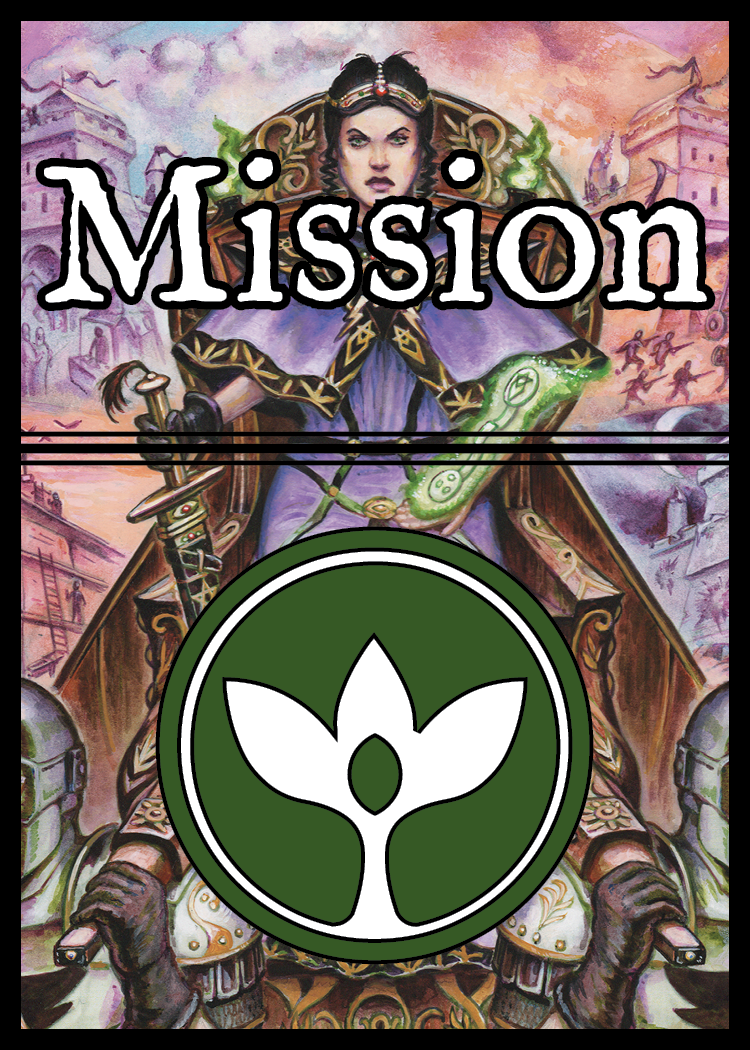
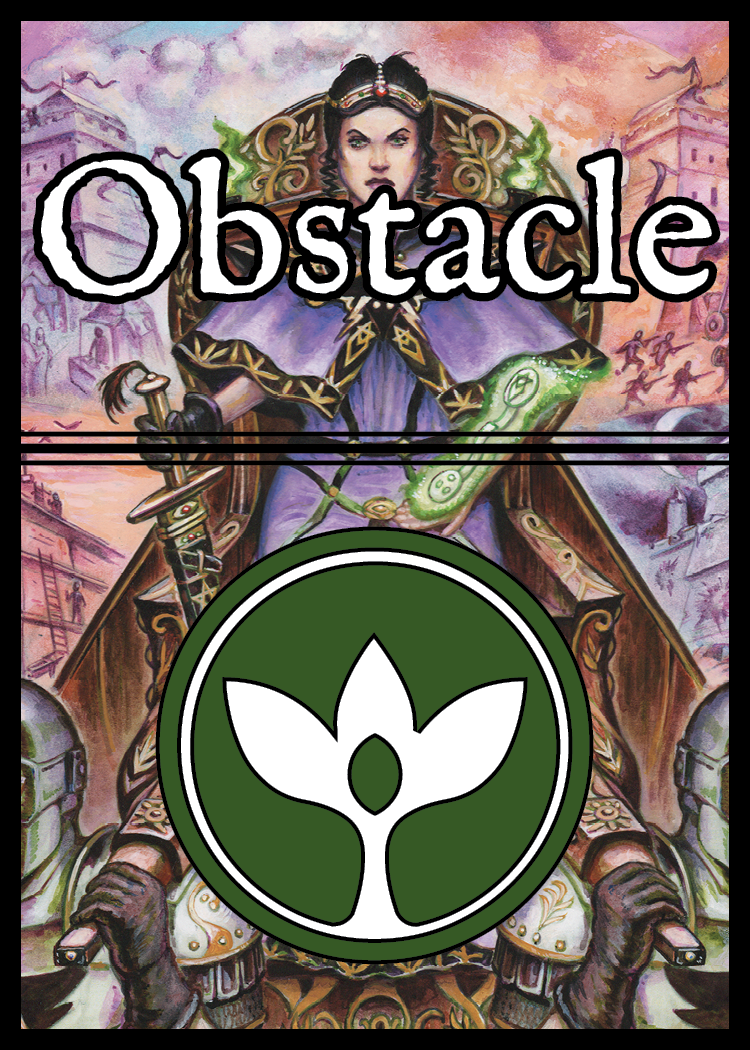
adding in details to appendix

diff --git a/docs/RULES.md b/docs/RULES.md
@@ -2,47 +2,51 @@
 
 *Six Winters* is a cooperative fantasy campaign game for 1-4 players based on the *Wrath of the Autarch* tabletop role-playing game.
 
-Players control **Red Bank**, a diasporic society under threat from the **Empire of the Autarch**. The Autarch is working to achieve a sorcerous apotheosis, rendering The Empire unstoppable and spelling certain doom for Red Bank. The players have six winters to stop this from happening. Each game of Six Winters is 2 to 3 hours long and plays out one year in the life of Red Bank.
+Players control **Red Bank**, a diasporic society under threat from the **Empire of the Autarch**. The Autarch is working to achieve a sorcerous apotheosis, rendering The Empire unstoppable and spelling certain doom for Red Bank. The players have six winters to stop this from happening. Each game of *Six Winters* is 2 to 3 hours long and plays out one year in the life of Red Bank.
 
 During a session of the game, players select from a rotating cast of characters to make progress against the Empire. Each character has their own unique capabilities and limitations. Effectively managing these characters over the six winters is critical to successfully stopping the Empire!
 
-`As this document is very much in progress, designer thoughts and notes are captured using this highlighted formatting. They help provide context and insights, but are not essential to understanding the game. For now, I'm capturing rules in markdown, which is not a very rich textual format, but is quick to edit, and ideal for the state the game is in. The number of helpful images and diagrams is going be minimal, because they are difficult and time consuming to create for a game that is in such a fluid state. In other words: it isn't going to be easy to understand the game from the given rules doc, but hopefully it's at least possible. More than anything, I'm interested in capturing a specific version of the rules to help weight playtesting decisions. The version number matches that used in Tabletop Simulator. Along with that, all of the graphic design and layout is only for prototype purposes and will certainly change at production time.`
+`As this document is very much in progress, designer thoughts and notes are captured using this highlighted formatting. They help provide context and insights, but are not essential to understanding the game. For now, I'm capturing rules in markdown, which is not a very rich textual format, but is quick to edit, and ideal for the state the game is in. The number of helpful images and diagrams is going be minimal, because they are difficult and time consuming to create for a game that is in such a fluid state. In other words: it isn't going to be easy to understand the game from this rules doc, but hopefully it's at least possible. More than anything, I'm interested in capturing a specific version of the rules to help with playtesting decisions. The version number matches that used in Tabletop Simulator. Along with those caveats, all of the graphic design and layout is only for prototype purposes and will certainly change at production time.`
 
 ## Resources
 
-The conflict with the Empire is over six **resources**:
+The conflict with the Empire is over six **resources**.
 
 | Support | Technology | Espionage | Military | Diplomacy | Sorcery |
 | :---: | :---: | :---: | :---: | :---: | :---: |
 | <img src="rules_images/capitol.png" width="100" height="100" /> | <img src="rules_images/spyglass.png" width="100" height="100" /> | <img src="rules_images/cowled.png" width="100" height="100" /> | <img src="rules_images/catapult.png" width="100" height="100" /> | <img src="rules_images/stone-throne.png" width="100" height="100" /> | <img src="rules_images/magic-swirl.png" width="100" height="100" /> |
  
+`These resources are fairly abstract, compared to something like ore or timber. Not totally sure if resources is the right word here, but it's the best I've come up with so far.`
+
 ## Progress
 
-Red Bank's **progress** in those areas is marked using a red cube on each associated twelve space [**resource track**](#progress-and-threat-tracks) on the [**trade board**](#trade-board).
+Red Bank's **progress** in each resource is marked using a red cube on an associated twelve space [**resource track**](#progress-and-threat-tracks) on the [**trade board**](#trade-board).
 
 ## Threats
 
-**Threats** against Red Bank in each resource area are tracked using a gray cube on each resource track. There are ways to slow the escalation of threats and even lower threats during play.
+**Threats** against Red Bank in each resource are tracked using a gray cube on each resource track. There are ways to slow the escalation of threats and even lower threat tracks during play.
 
 `Lowering threat levels after they have advanced is much more difficult than trying to slow the rate of advancement in the first place. Completely stopping threats requires some luck.`
 
 ## Victory
 
-If the Red Bank progress marker is _alone_ on the last space of a resource track (the 12th space), that resource track is **complete**. After the sixth game, check for victory as follows:
+If a Red Bank progress marker is _alone_ on the last space of the resource track (the 12th space), that resource track is **complete**. After the sixth game, check for victory as follows:
 
 * **Pyrrhic Victory**: Red Bank has completed one of Diplomacy, Support, or Espionage.
 * **Major Victory**: Red Bank has completed any two of Diplomacy, Support, or Espionage.
 * **Total Victory**: Red Bank has completed all of Diplomacy, Support, and Espionage.
 
-Additionally, the players get bonus points for every resource track where the progress marker is higher than the threat marker.
-
 Any other state of the game after six sessions results in defeat for Red Bank.
+
+Additionally, a score is calculated at the end, with players getting points for every resource track where the progress marker is higher than the threat marker.
+
+`There are thematic reasons that Military, Technology, and Sorcery tracks don't translate to victory. It is impossible to keep pace with the Empire on the Military and Technology fronts. Sorcery is too chaotic to form a strategy around, but it's a very useful resource for some characters, and it's possible to craft and transmute sorcery into other resources. All of the resources have value and mechanical impact during the game.`
 
 # Components
 
 ## Resource Dice
 
-Each resource has a [**pool**](#resource-pools) of resource dice. At the end of each turn, players refill these pools to a number of dice equal to the value shown on the progress marker (1-6 dice).
+Red Bank's raw capability in a resource is represented by a [**pool**](#resource-pools) of resource dice. This pool of resource dice fluctates in size and value over the course of a game, as capabilities are used for different effects. At the end of each turn, players [**refresh**](#refresh) these pools with a number of dice equal to the value shown on the progress marker. This is normally 1 to 6 dice, depending on the resource.
 
 Resource dice are colored as follows:
 
@@ -53,27 +57,25 @@ Resource dice are colored as follows:
 * **Diplomacy**: Lavender
 * **Sorcery**: Blue
 
-`The dice in resource pools represent the raw capability of Red Bank in that area.`
-
 ## Assets
 
-Resource dice are not very useful in resource pools, so players will frequently move them on to [**location cards**](#location-cards) first. Resource dice placed on location cards are referred to as **assets**. Assets are freely available for characters at that location to use, most commonly to complete mission [**progress cards**](#progress-cards), although they can also be used to [**overcome obstacles**](#overcome) or fuel character [**abilities**](#abilities).
+Resource pools are not as useful as **assets**: specific creations of each resource type. These are flexible concepts in the narrative. For instance, an espionage asset could represent anything from a helpful spy or contact to thieves tools or gear.
 
-`If resource pools are raw capabilities, assets are specific uses and creations. Their form in the narrative is flexible. An espionage asset could represent anything from a helpful spy or contact to thieves tools or gear.`
+Assets are created by moving dice from resource pools onto [**location cards**](#location-cards) with the [**create asset**](#create-asset) action. Other game effects may create assets directly. Characters at the location with assets may use them to complete mission [**progress cards**](#progress-cards), as well as help [**overcome obstacles**](#overcome) or fuel character [**abilities**](#abilities).
 
 ## Action Dice
 
-Each player has a pool of red action dice available each turn. These dice are spent to perform actions in the game. For some actions, the value on the action dice doesn't matter (such as moving from one location to another), but for most actions the value is important.
+Each player has a pool of red action dice available each turn. These dice are spent to perform actions in the game. For some actions like movement, the value on the action dice doesn't matter, but for most actions the values are important.
 
-`Think of these like the action points in a game like Oath. Although the action points have values which can impact the abilitiy to take certain actions.`
+`Think of these like the action points. Although the action points have values which can impact the abilitiy to take certain actions.`
 
 ## Character Tokens
 
-There are tokens (miniatures in *Tabletop Simulator*) for each character in the campaign. These are moved around the nine different **location cards** during play.
+There are tokens, or miniatures in *Tabletop Simulator*, for each character in the campaign. These are moved around the nine different **location cards** during play.
 
 ## Location Cards
 
-There are nine different location cards in play during a game, three in each of the following regions:
+Characters move around nine different locations, represented by a grid of cards. There are three locations in each of the following regions:
 
 | The Empire | Red Bank | The Settled Lands |
 | :---: | :---: | :---: |
@@ -110,11 +112,11 @@ The upper right of each location card shows the character [**skill**](#skills) u
 
 ### Movement Costs
 
-Along the bottom of each card are [**movement**](#move) costs for each region. A player spends the listed number of action dice, the value of the dice do not matter, to move their character to any location in that region.
+Along the bottom of each card are [**movement**](#move) costs for each region. A player spends the listed number of action dice to move their character to any location in that region. The value of the action dice don't matter for movement.
 
 ### Location Effect Icon (Optional)
 
-The upper left of each location card may contain optional icons indicating various effects.
+The upper left of each location card contain optional icons indicating various effects.
 
 | Port | Magic Gate | Support Source | Technology Source | Espionage Source | Military Source | Diplomacy Source | Sorcery Source |
 | :---: | :---: | :---: | :---: | :---: | :---: | :---: | :---: |
@@ -182,7 +184,7 @@ Progress cards are separated and grouped by stage. All the stage one cards are s
 
 ## Obstacle Cards
 
-There is one deck of obstacle cards for each region (*Empire*, *Red Bank*, and the *Settled Lands*). Over the course of the campaign, obstacle cards may move between decks, and decks may grow or shrink based on campaign events. Obstacle cards come into play during the [**new obstacles**](#new-obstacles) and [**obstacle surge**](#obstacle-surge) phases, causing effects which are usually negative for the characters and *Red Bank*.
+Obstacle cards represent adversaries, challenges, but also opportunities for Red Bank. There is one deck of obstacle cards for each region: *The Empire*, *Red Bank*, and the *Settled Lands*. Over the course of the campaign, obstacle cards may move between decks, and decks may grow or shrink based on campaign events. Obstacle cards come into play during the [**new obstacles**](#new-obstacles) and [**obstacle surge**](#obstacle-surge) phases, causing effects which are usually negative for the characters and *Red Bank*.
 
 <img src="rules_images/sample_obstacle.png" width="432" height="605"/> <img src="rules_images/sample_obstacle_back.png" width="432" height="605"/>
 
@@ -286,9 +288,9 @@ Both progress and threats are tracked on the resource tracks. Red cubes are used
 
 On each resource pool are numbered **resource action slots** from 0 to 6. These are used by characters to retrieve resource dice from each pool using the [**create asset**](#create-asset) action as well as to trade resources using the [**trade**](#trade) action.
 
-### Resource Bonus
+### Resource Mastery Bonus
 
-When Red Bank's progress track for a resource is at or beyond the '+' symbol on the resource track, players gain the mechanical benefit for described in the resource box. These are further clarified in the [**resource bonuses**](#resource-bonuses) section.
+When Red Bank's progress track for a resource is at or beyond the **+** symbol on the resource track, Red Bank has mastery in that resource, and players gain the mechanical benefit described in the resource box. These bonuses are further clarified in the [**resource bonuses**](#resource-bonuses) section.
 
 ### Wheel of Seasons
 
@@ -426,12 +428,12 @@ The red cubes are used to track *Red Bank's* progress on each resource track. At
 
 The first step is to determine the difficulty of the campaign. Initial threat levels are based on difficulty. Place gray cubes at the appropriate position of each resource track:
 
-* **Cakewalk**: First space, on same space as red progress cubes
+* **Cakewalk**: First space, on same space as red threat progress cubes
 * **Standard**: Third space
 * **Difficult**: Sixth space
-* **Impossible**: Ninth space, only three away from the last space of the track, when particularly bad effects kick in
+* **Tragedy Incarnate**: Ninth space, only three away from the last space of the track, when particularly bad effects kick in
 
-At the standard and cakewalk difficulties, there's a very high chance of at least a pyrrhic victory. The game at those levels is more about what happens to characters along the way and the degree of success. At the difficult and impossible levels, there's a chance the players will not succeed at all.
+At the standard and cakewalk difficulties, there's a very high chance of at least a pyrrhic victory. The game at those levels is more about what happens to characters along the way and the degree of success. At the difficult and tragedy levels, there's a chance the players will not succeed at all.
 
 ## Choose Starting Locations
 
@@ -728,7 +730,7 @@ Finally, multiply the total points by the difficulty to find your score:
 * **Cakewalk**: x1
 * **Standard**: x2
 * **Difficult**: x3
-* **Impossible**: x4
+* **Tragedy Incarnate**: x4
 
 | Score | Result |
 | :-- | :-- |
@@ -748,35 +750,61 @@ Finally, multiply the total points by the difficulty to find your score:
 
 TBD
 
-# Resource Bonuses
-
-TBD
+# Resource Mastery Bonuses
 
 ## Support
 
-TBD
+May create assets from or trade using *all* the resource dice matching the value of the action die used. This makes sets of the same value in resource pools particularly easy to move around.
 
 ## Technology
 
-TBD
+All players get one additional action die at the start of each turn.
 
 ## Espionage
 
-TBD
+Whenever an espionage asset of value 2 is created, roll an additional espionage asset. Continue creating additional espionage assets until a number other than 2 is rolled.
 
 ## Military
 
-TBD
+May move any assets *from* a military location to any other location.
 
 ## Diplomacy
 
-TBD
+May trade 2 resource dice for any 1 resource die along the wheel of [**trade**](#trade). That is, 2 technology resource dice may be spent to roll a new espionage resource die, 2 espionage resource dice for a military resource die, 2 sorcery resource dice for any other resource die, etc. This may be done by any player freely at any time.
 
 ## Sorcery
 
-TBD
+Sorcery assets may be treated as any resource type or die value when playing onto progress cards. Note that the sorcery asset die value may not be changed, but rather the resource type and value restrictions are ignored.
 
 # Character Appendix
+
+## Fuscus
+
+TBD
+
+## Keel
+
+<img src="rules_images/square.png" width="75" height="75" /> <img src="rules_images/arrow-right.png" width="75" height="75" /> <img src="rules_images/square.png" width="75" height="75" /> <img src="rules_images/plus.png" width="75" height="75" /> <img src="rules_images/square.png" width="75" height="75" />
+
+Choose a die and split it into two. The two dice must sum to the chosen die.
+
+## Lucia
+
+TBD
+
+## Menas
+
+TBD
+
+## Oniri
+
+TBD
+
+## Thea
+
+TBD
+
+## Yasmina
 
 TBD
 

diff --git a/docs/BRAINSTORMING.md b/docs/BRAINSTORMING.md
@@ -3,14 +3,27 @@
 * Add location or obstacle effects for burning or discarding obstacles
 * Combos on left side of character cards
    * 3 3 3 3 --> improve any resource track
+      * This isn't a good idea, it subverts progress cards, effects should be distinct
    * 3 4 5 --> 5 dice
+      * Straight to big combo could be fun
    * 3 3 --> 1 2 3
+      * Set to Straight combos could feature in progress cards
 * Customizable character abilities
-   * Write in resources you can create?
+   * Write in resources you can create or trade into?
    * May move to the location where XYZ is located
 * Make sure mission cards have a base effect that always triggers
    * And is modified, if necessary, by situations
    * Otherwise they loose their teeth
+
+# 08/16/22
+
+## Resource Bonus Effects
+
+Going to have resource bonuses occur at fixed places on the tracks. Advantage has the same issue that the tug-of-war had for resource tracks: it really sucks to have an effect and then lose it. The "insight" sorts of effects were a cool idea, but really not desirable, because they add to decision paralysis and slow threat tracks. At the moment, threat tracks need to move quicker, not slower.
+
+Espionage bonus could be more location cards to draw from? That could really be beneficial if the default is 1 location card draw in each region. Although that's pretty brutal in terms of combos, etc. Could also do something with the espionage location, or imperial locations. Or maybe it's a full on choose location? As in, choose a location card from a region? Choose from imperial region?
+
+Feels like something with dice combos is a little more exciting, but not sure what. Chains of x -> y are better served as character abilities. Maybe something like "1" assets explode? That is, every time you create an espionage asset from a 1, you can roll another die and create another asset? That would be more fun than location digging.
 
 # 07/24/22
 
